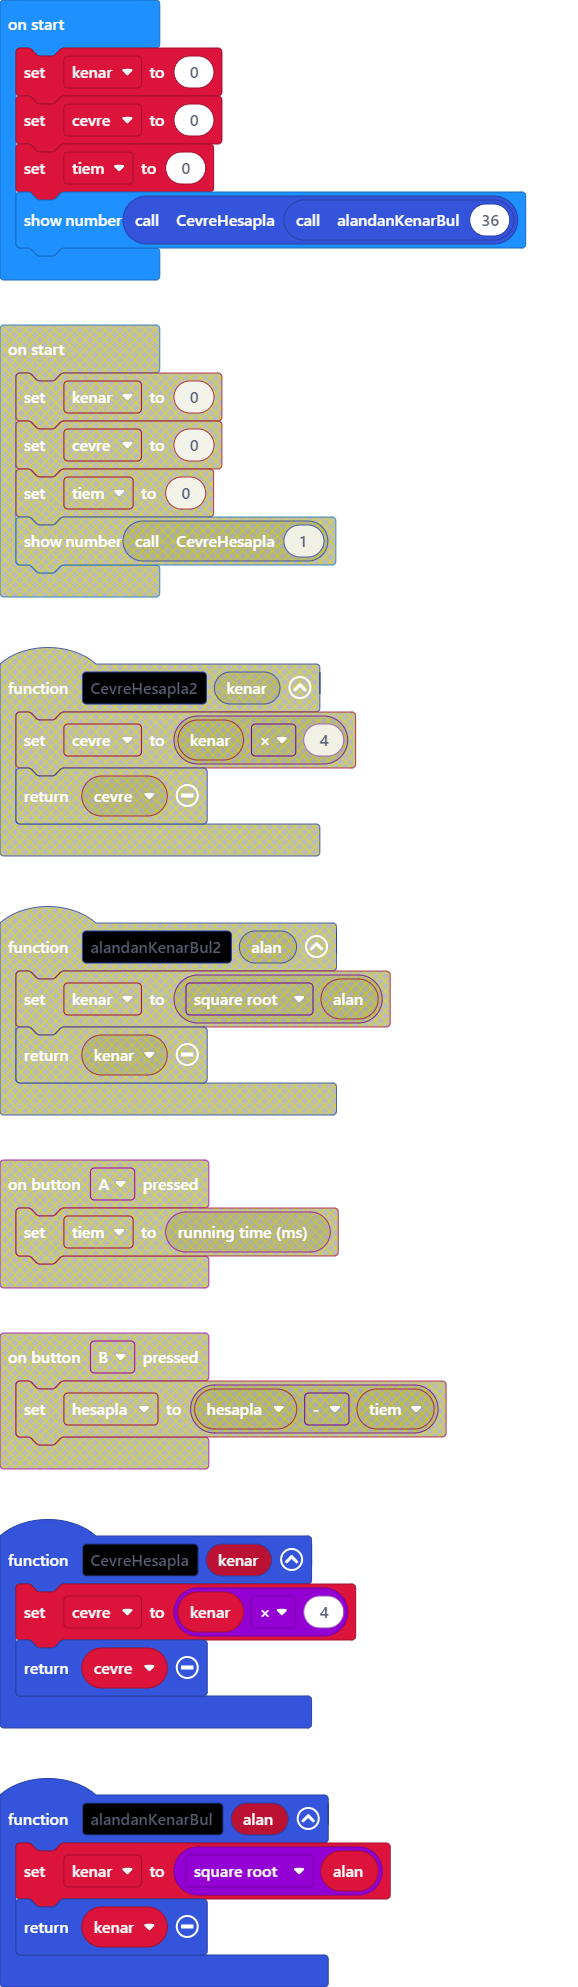
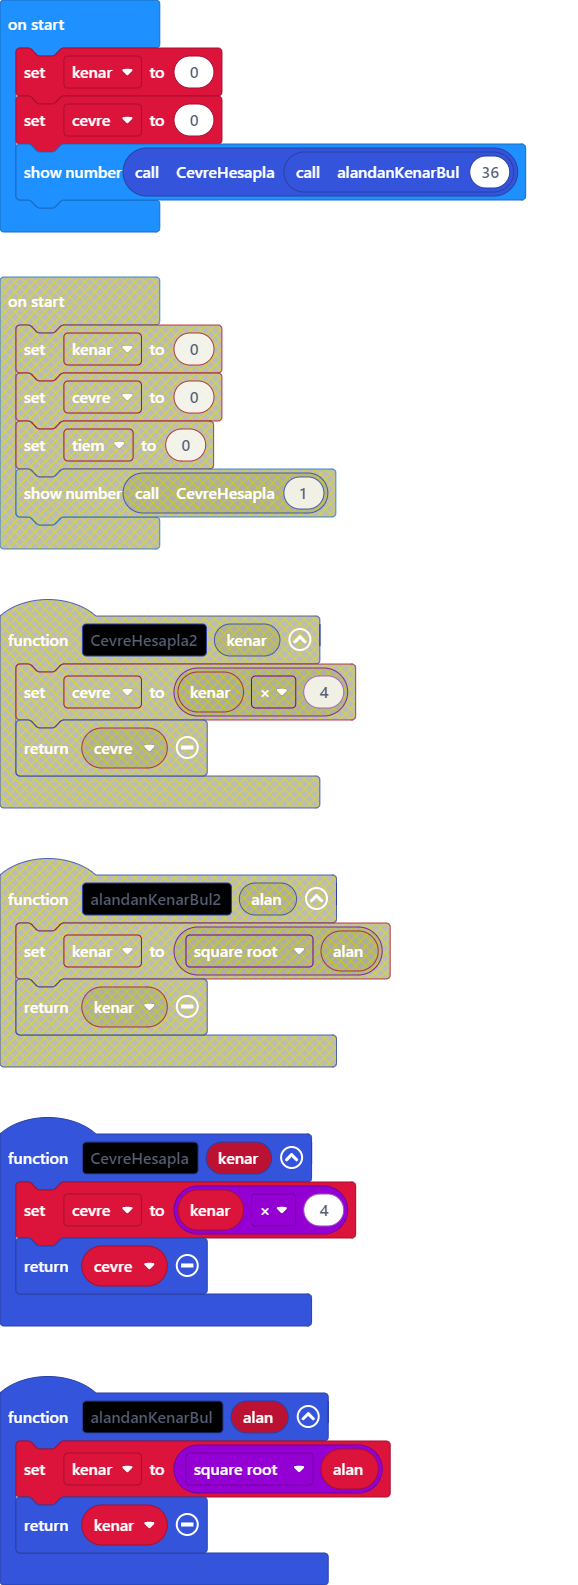
Update pxt.json, main.blocks, main.ts

diff --git a/main.ts b/main.ts
@@ -10,5 +10,4 @@ let cevre = 0
 let kenar = 0
 kenar = 0
 cevre = 0
-let tiem = 0
 basic.showNumber(CevreHesapla(alandanKenarBul(36)))
